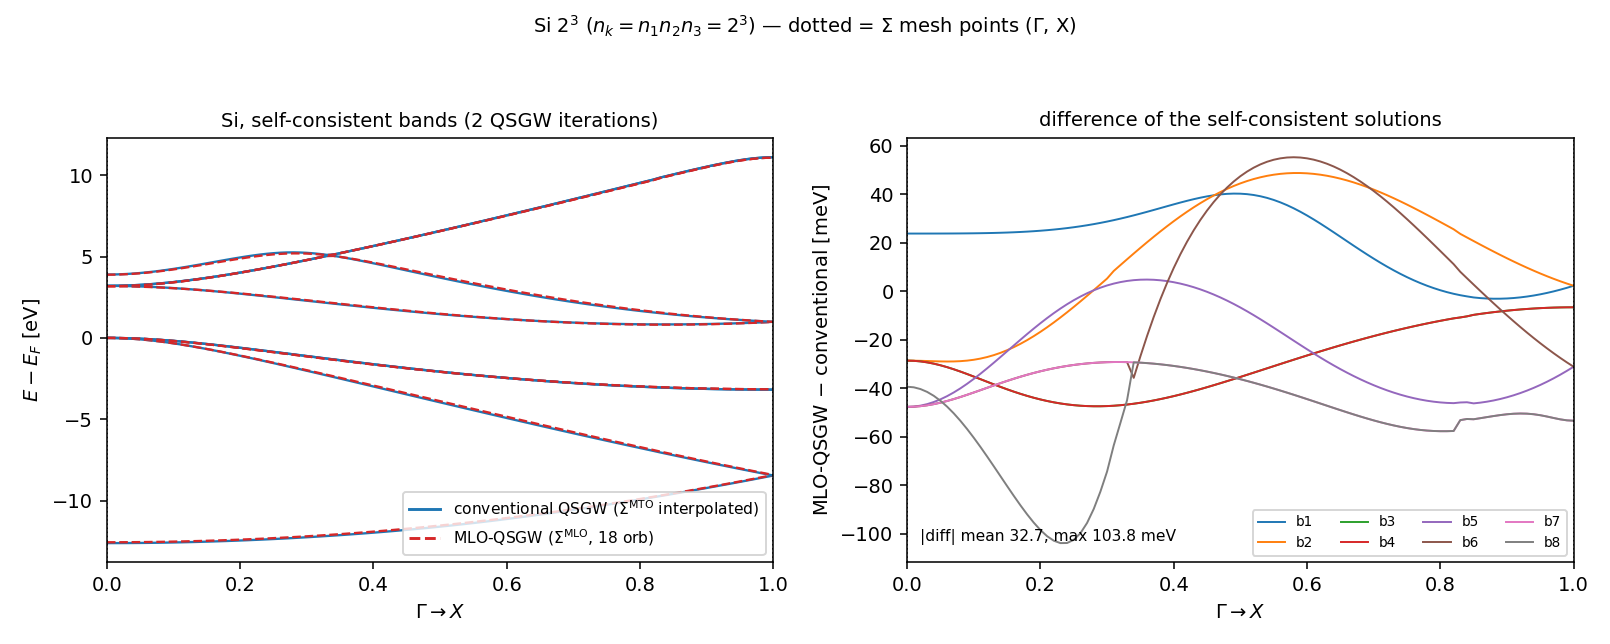
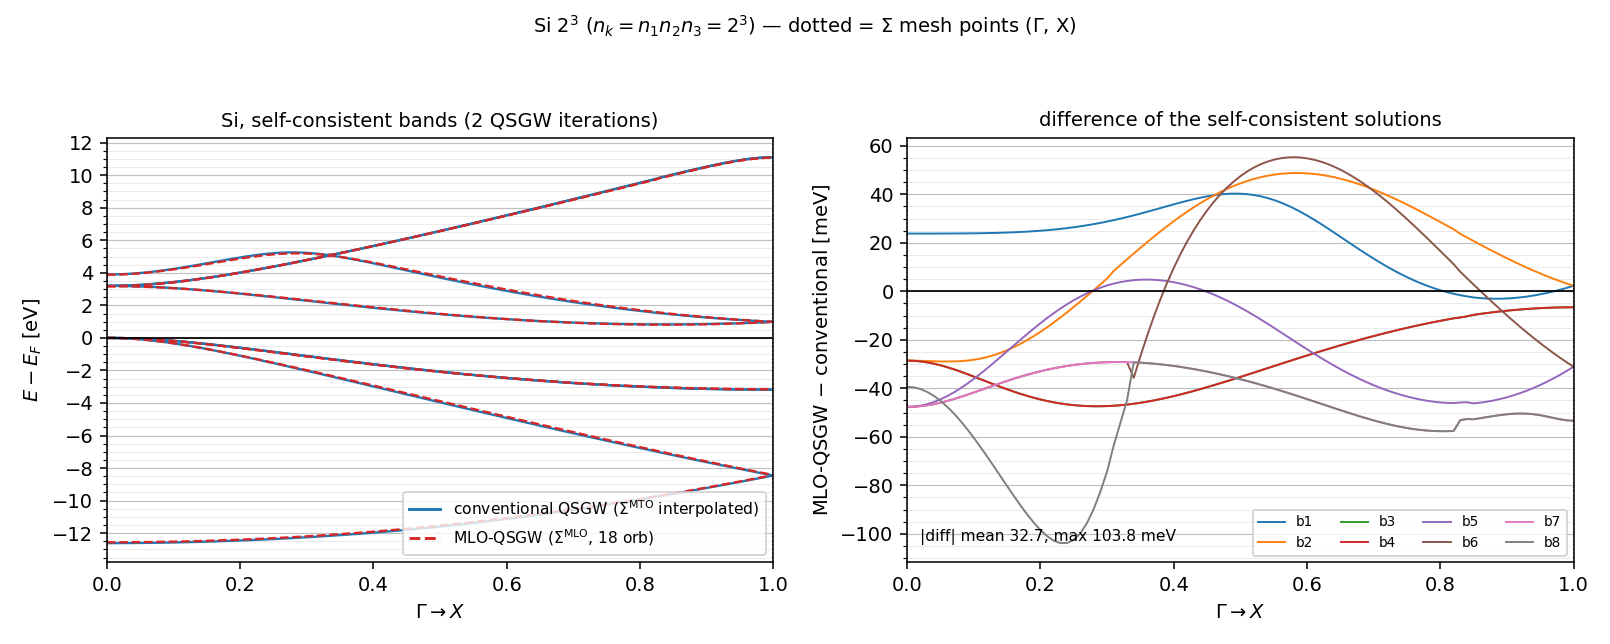
Si MLO-QSGW figure: horizontal grid (2 eV major / 0.5 eV minor on the bands, 20/5 meV on the difference) and a solid line at zero

diff --git a/Samples/kBT/Si/mloqsgw_si.py b/Samples/kBT/Si/mloqsgw_si.py
@@ -34,9 +34,18 @@ ax[1].legend(fontsize=7, ncol=4)
 d = (em[:NB]+efm)-(er[:NB]+efr)
 ax[1].text(0.02,0.05,f'|diff| mean {np.abs(d).mean()*1e3:.1f}, max {np.abs(d).max()*1e3:.1f} meV',
            transform=ax[1].transAxes, fontsize=8)
+from matplotlib.ticker import MultipleLocator
 for a in ax:
     for m in (0.0,1.0): a.axvline(m,color='k',ls=':',lw=0.8)
     a.set_xlabel('$\\Gamma \\to X$'); a.set_xlim(0,1)
+    a.grid(axis='y', which='major', color='0.75', lw=0.6)
+    a.grid(axis='y', which='minor', color='0.9',  lw=0.4)
+ax[0].yaxis.set_major_locator(MultipleLocator(2.0))   # eV
+ax[0].yaxis.set_minor_locator(MultipleLocator(0.5))
+ax[0].axhline(0.0, color='k', lw=0.9)                 # E_F
+ax[1].yaxis.set_major_locator(MultipleLocator(20.0))  # meV
+ax[1].yaxis.set_minor_locator(MultipleLocator(5.0))
+ax[1].axhline(0.0, color='k', lw=0.9)
 fig.suptitle('Si 2$^3$ ($n_{k}=n_{1}n_{2}n_{3}=2^3$) — dotted = $\\Sigma$ mesh points ($\\Gamma$, X)', fontsize=10)
 plt.tight_layout(rect=[0,0,1,0.94]); plt.savefig(sys.argv[3], dpi=140)
 print('wrote', sys.argv[3])
